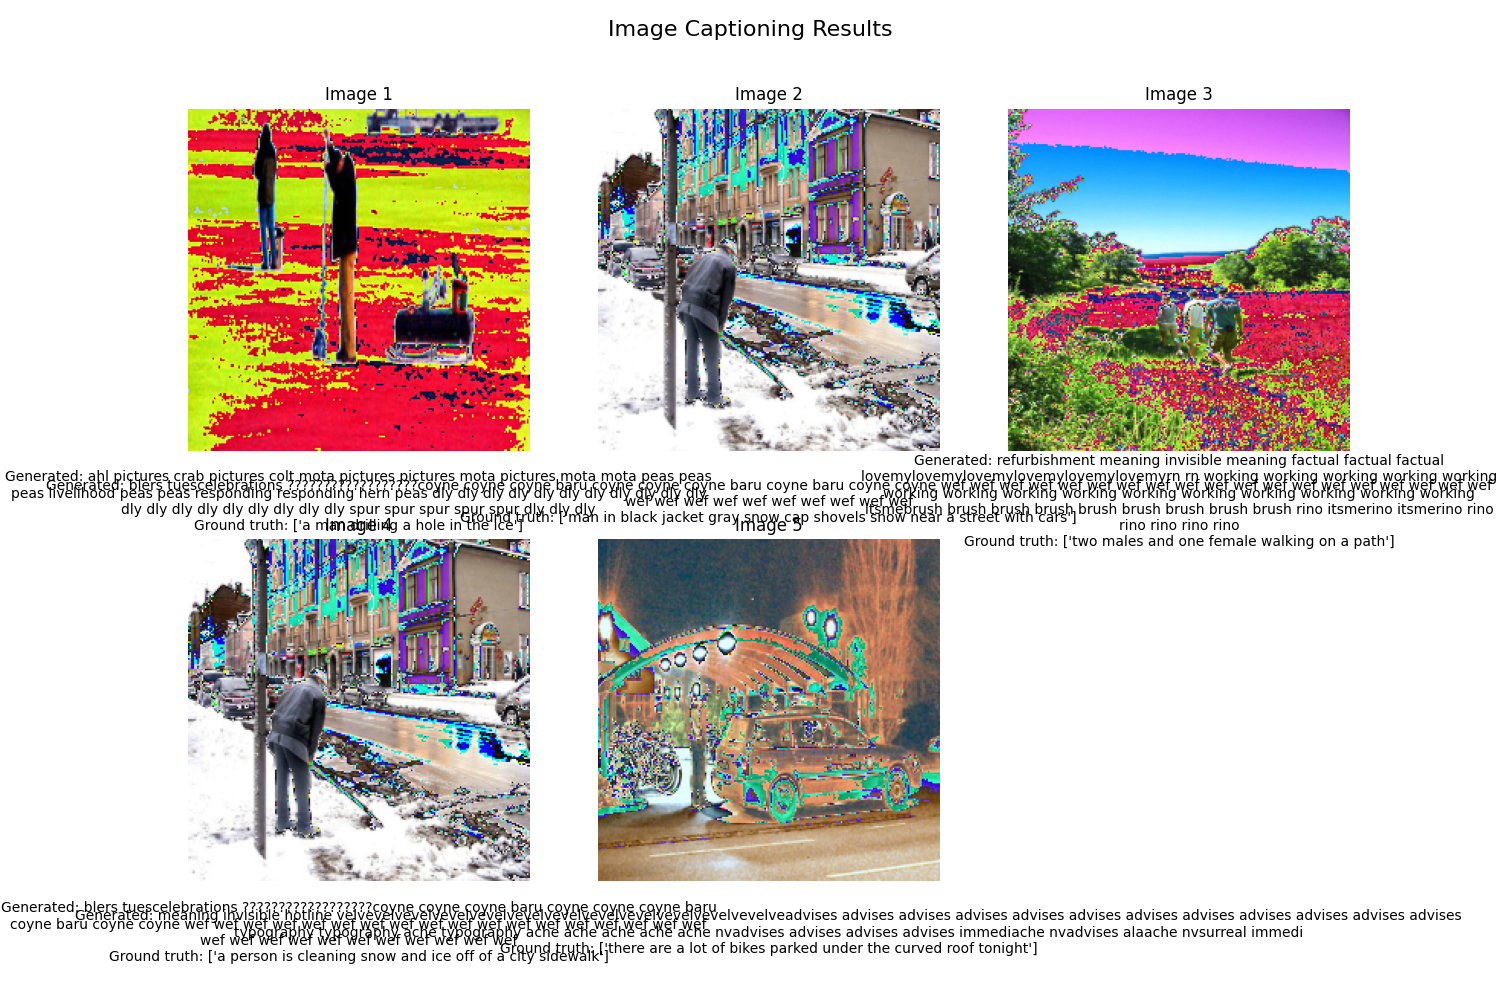
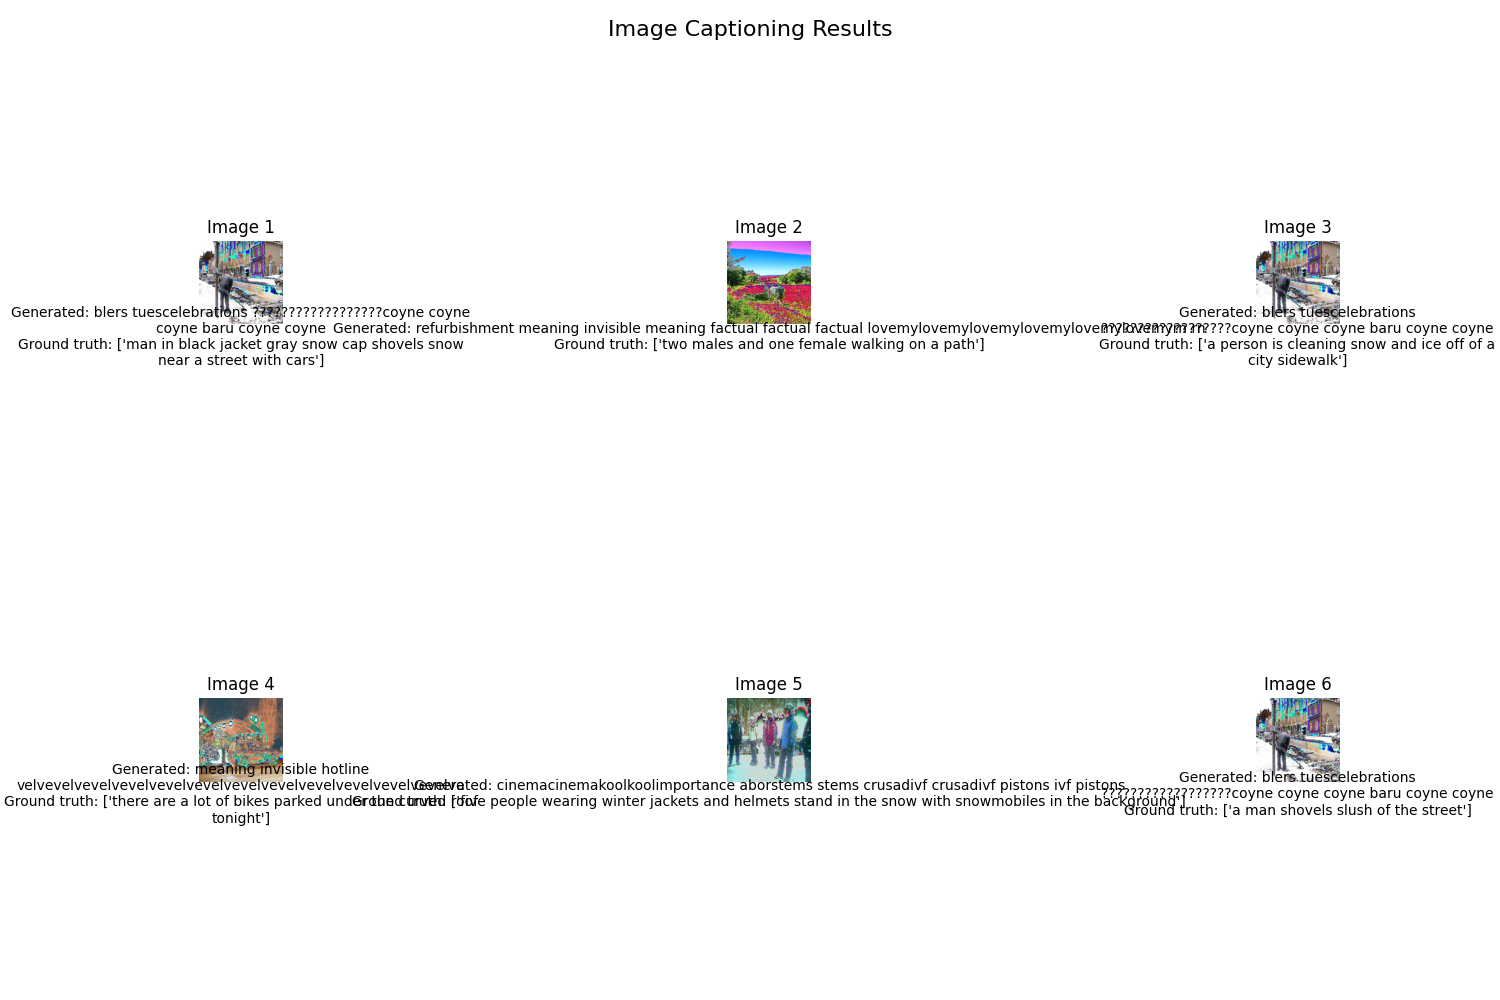
feat: set max len

diff --git a/src/03_train.py b/src/03_train.py
@@ -66,7 +66,7 @@ def main():
 
     print("Model loaded")
 
-    dataset = ImageCaptioningDataset(train_images, captions, model)
+    dataset = ImageCaptioningDataset(train_images, captions, model, max_len=15)
 
     print("Dataset loaded")
 
@@ -174,23 +174,20 @@ def evaluate(model, test_images, test_captions):
         for idx in sample_indices:
             # Get a single sample
             sample = test_dataset[idx]
-            
+
             # Process inputs
             image = sample["image_bytes"].unsqueeze(0).to(device)  # Add batch dimension
             label_ids = sample["label_ids"].unsqueeze(0).to(device) # Add batch dimension
-            
+
             # Store original image for plotting
             original_images.append(sample["image_bytes"])
-            
-            # Use the generate_caption method to get the caption
-            generated_caption = model.generate_caption(image, max_new_tokens=50)[0]
 
-            # Truncate the generated caption to 10 words
-            generated_caption = generated_caption[:label_ids.size(1)]
-            
+            # Use the generate_caption method to get the caption
+            generated_caption = model.generate_caption(image, max_new_tokens=15)[0].split()
+
             # For ground truth, get the text from the label_ids
             ground_truth = model.decode_tokens(label_ids.squeeze(0).cpu().numpy())
-            
+
             # Store results
             generated_captions.append(generated_caption)
             ground_truth_captions.append(ground_truth)

diff --git a/src/dataset.py b/src/dataset.py
@@ -10,7 +10,7 @@ import io
 from torchvision import transforms
 
 class ImageCaptioningDataset(Dataset):
-    def __init__(self, images, captions, model, resize_size=224):
+    def __init__(self, images, captions, model, resize_size=224, max_len=25):
         self.images = images
         self.captions = captions
 
@@ -18,7 +18,7 @@ class ImageCaptioningDataset(Dataset):
         self.bos_token = model.tokenizer.bos_token
         self.eos_token = model.tokenizer.eos_token
         self.pad_token = model.tokenizer.pad_token
-        self.max_len = model.max_len
+        self.max_len = max_len
         self.model = model
 
         self.image_transform = transforms.Compose([
